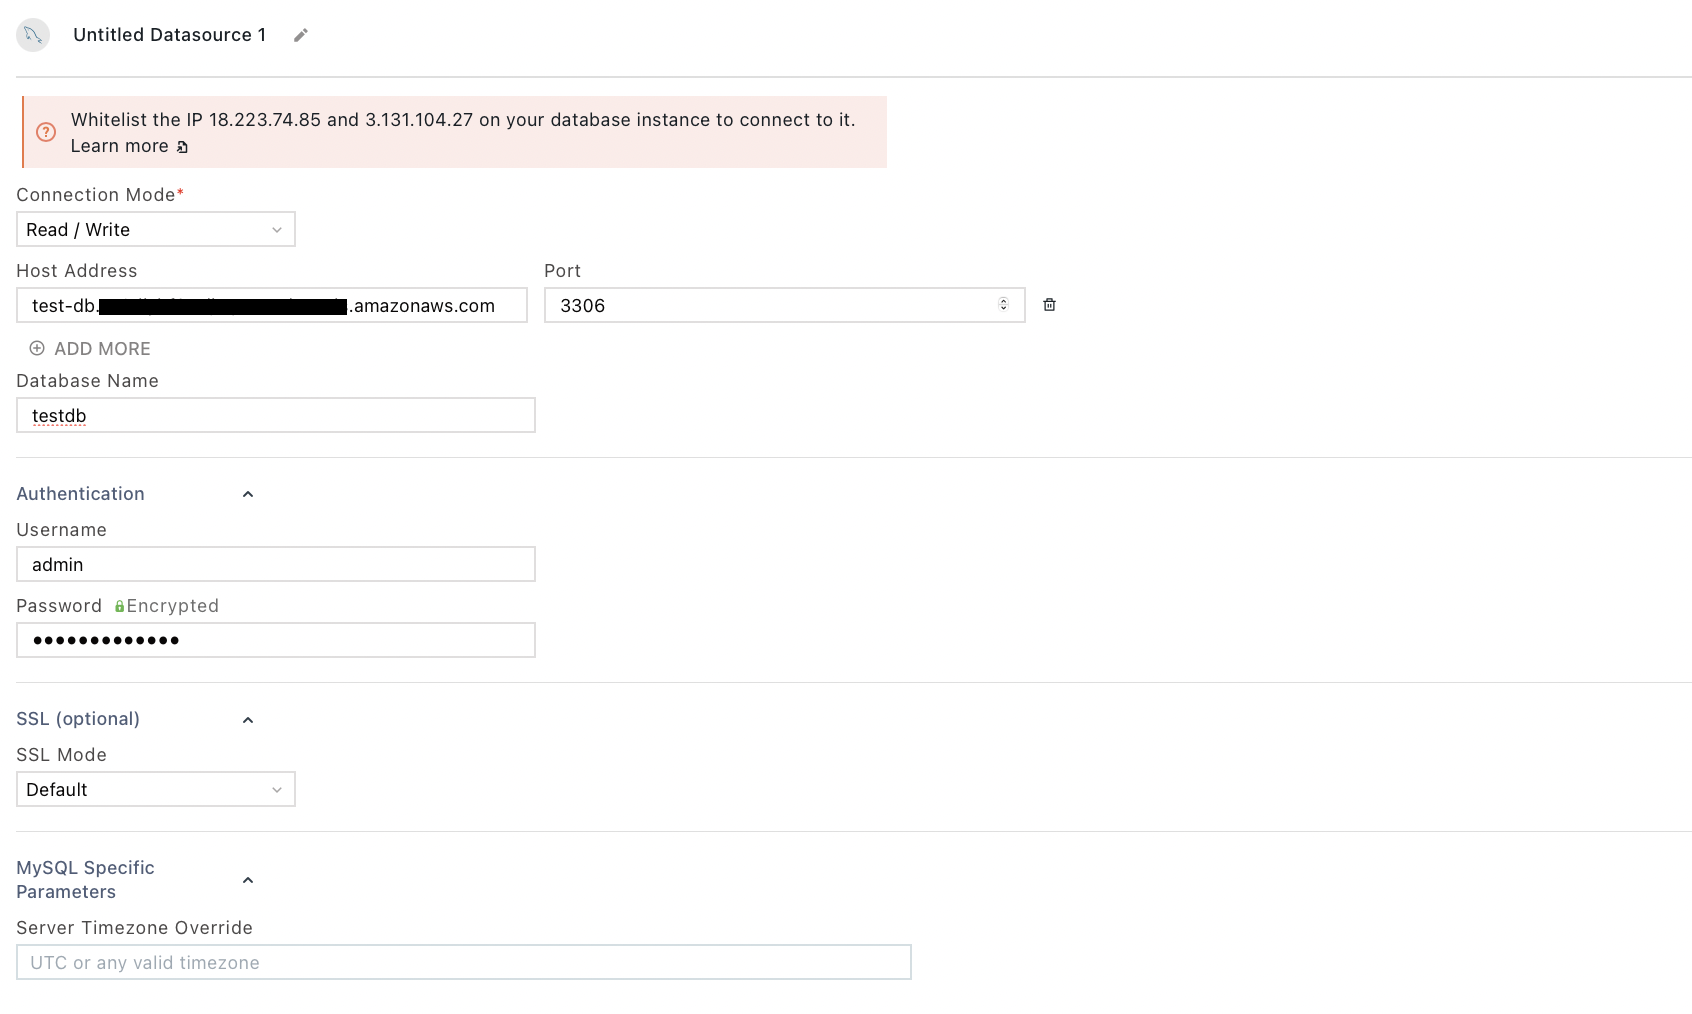
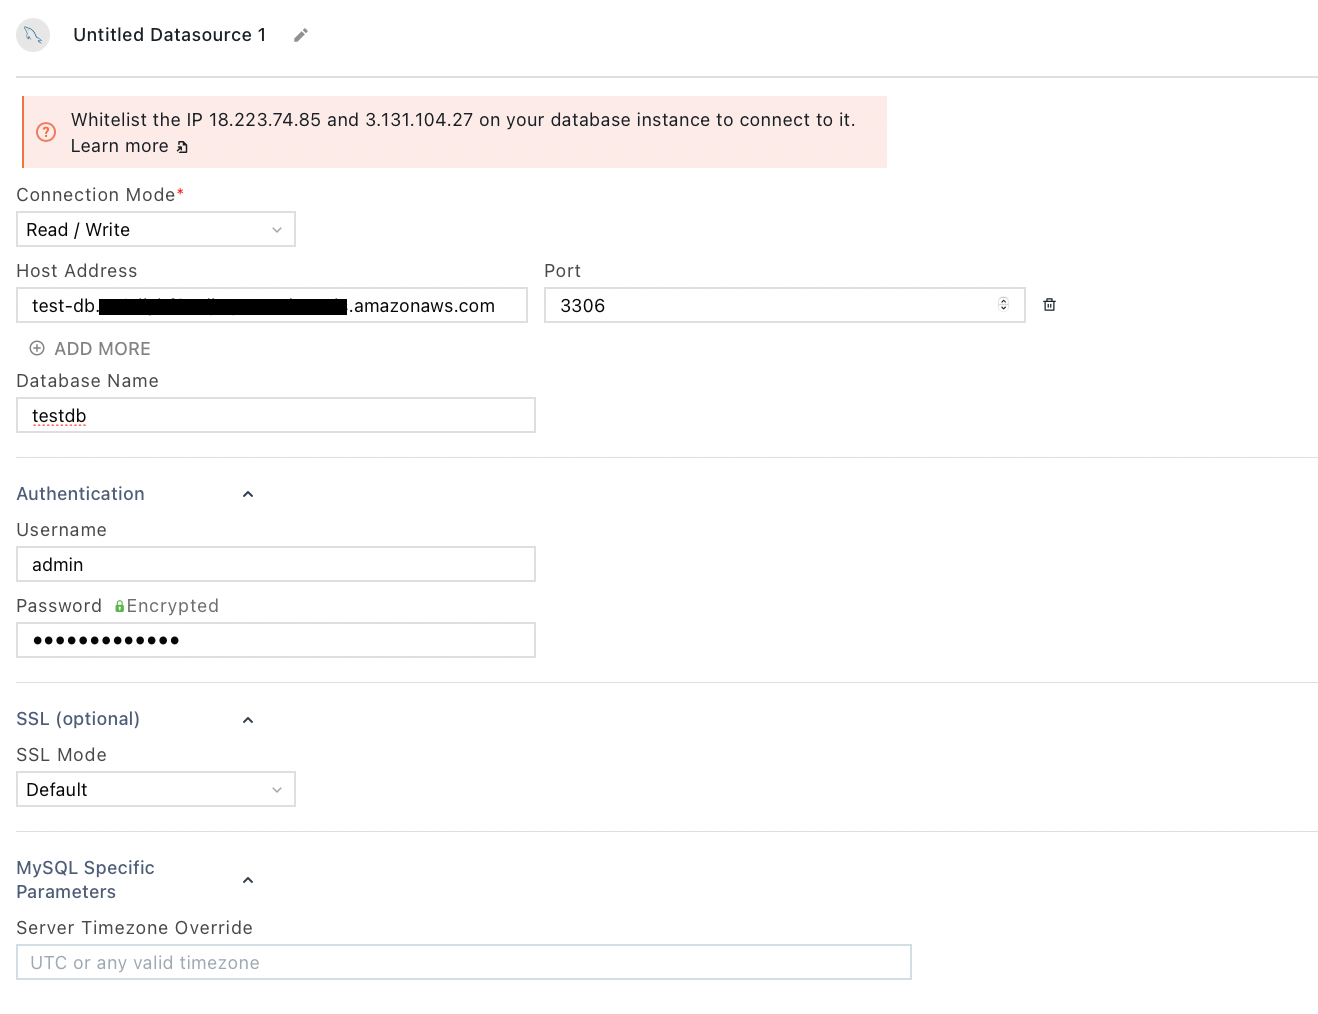
cropped+enlarged config screencap

diff --git a/website/docs/reference/datasources/querying-mysql.md b/website/docs/reference/datasources/querying-mysql.md
@@ -16,7 +16,7 @@ Appsmith supports MySQL versions 5.5, 5.6, 5.7, and 8.0.
 ### Configuration
 
 <figure>
-  <img src="/img/as-mysql-datasource-config.png" style= {{width:"700px", height:"auto"}} alt="MySQL Datasource configuration page"/>
+  <img src="/img/as-mysql-datasource-config.png" style= {{width:"100%", height:"auto"}} alt="MySQL Datasource configuration page"/>
   <figcaption align = "center"><i>MySQL Datasource configuration page</i></figcaption>
 </figure>
 
